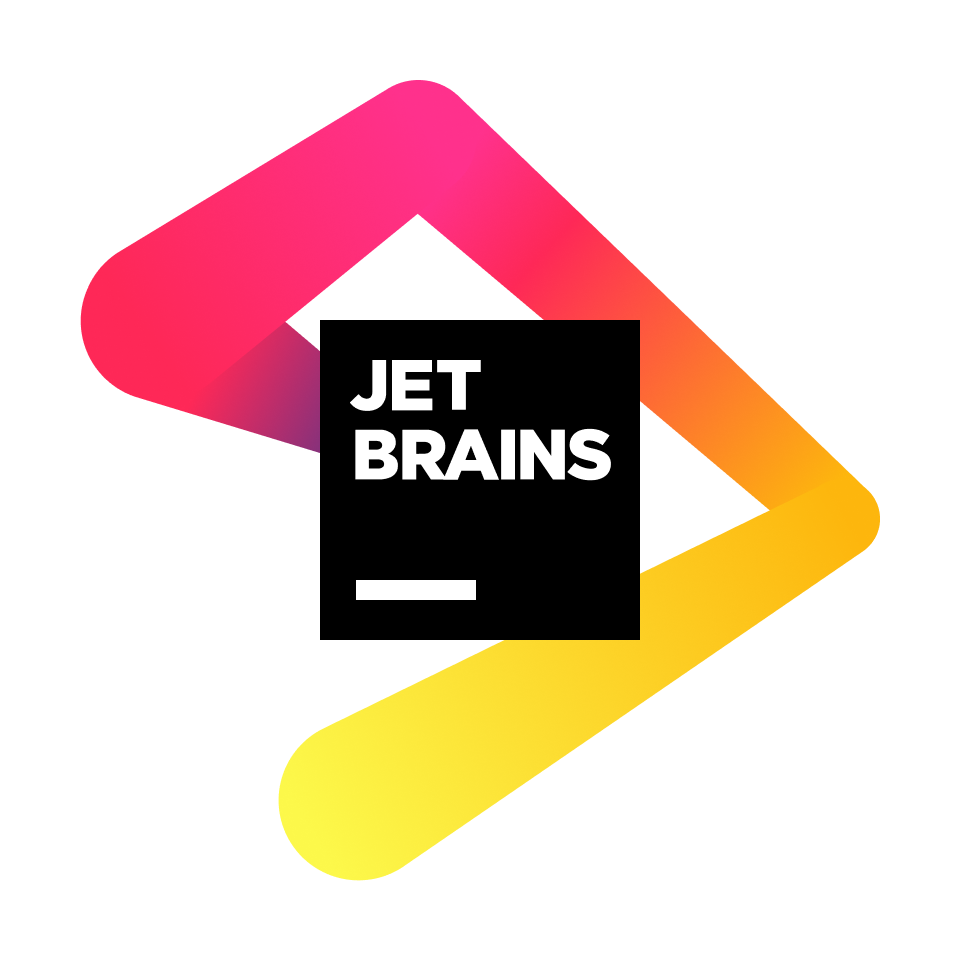
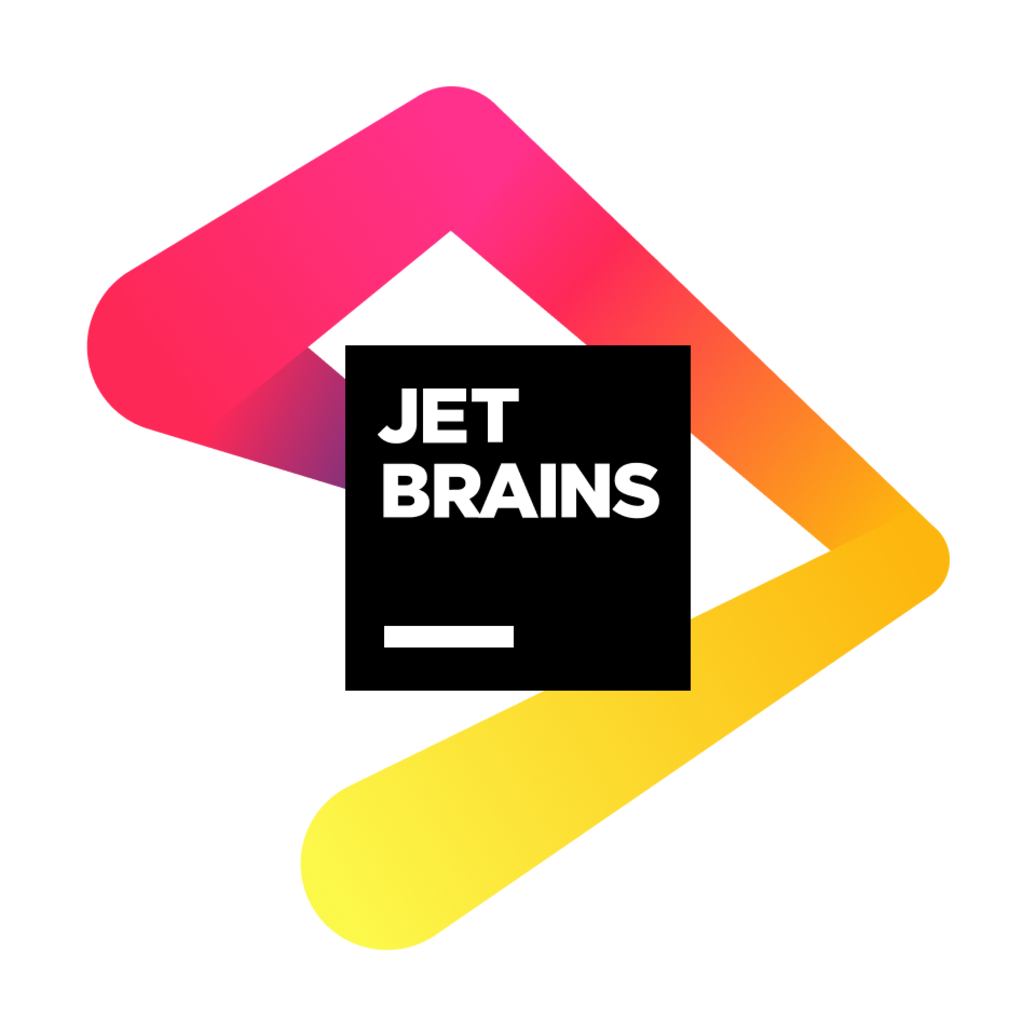
add CGI, fixed Jet Brains, added sponsor links

diff --git a/index.html b/index.html
@@ -507,12 +507,16 @@ UI Design: Aarushi
     <div class="sponsors-container">
         <div class="gold-sponsors">
             <h3>Gold Sponsors</h3>
-            <div class="sponsors-list d-flex flex-row justify-content-around">
+            <div class="sponsors-list justify-content-between">
                 <div class="gold">
+                    <a href="https://www.rbc.com/canada.html" target="_blank">
                     <img src="./Assets/Sponsors/Gold Sponsors/2019_RBC_rgb_P_1in.png" alt="RBC">
+                </a>
                 </div>
                 <div class="gold" id="Scotiabank">
+                    <a href="https://www.scotiabank.com/ca/en/personal.html" target="_blank">
                     <img src="./Assets/Sponsors/Gold Sponsors/Scotiabank Brand Box_English_For Web.png" alt="Scotiabank">
+                </a>
                 </div>
             </div>
         </div>
@@ -521,10 +525,14 @@ UI Design: Aarushi
             <h3>Silver Sponsors</h3>
             <div class="sponsors-list">
                 <div class="silver">
+                    <a href="https://www.bell.ca/" target="_blank">
                     <img src="./Assets/Sponsors/Silver Sponsors/Bell_Blue_large_transparent.png" alt="Bell">
+                </a>
                 </div>
                 <div class="silver">
-                    <img src="./Assets/Sponsors/Silver Sponsors/GM.png" alt="Bell">
+                    <a href="https://www.gm.ca/en/home.html" target="_blank">
+                    <img src="./Assets/Sponsors/Silver Sponsors/GM.png" alt="GM">
+                </a>
                 </div>
             </div>
         </div>
@@ -534,20 +542,33 @@ UI Design: Aarushi
             <div>
                 <div class="sponsors-list">
                     <div class="bronze">
+                        <a href="https://www.bmo.com/main/personal" target="_blank">
                         <img src="./Assets/Sponsors/Bronze Sponsors/BMO-MB_2RB.jpg" alt="BMO">
+                    </a>
                     </div>
                     <div class="bronze">
+                        <a href="https://www.kpmpower.com/" target="_blank">
                         <img src="./Assets/Sponsors/Bronze Sponsors/KPM Main_1.png" alt="KPM Power">
+                    </a>
                     </div>
                 </div>
             </div>
             <div>
                 <div class="sponsors-list">
-                    <div class="bronze">
+                    <div class="bronze" id="Scotiabank">
+                        <a href="https://www.morningstar.ca/ca/" target="_blank">
                         <img src="./Assets/Sponsors/Bronze Sponsors/MLOGO_red_3rgb_435px.png" alt="Morningstar">
+                    </a>
                     </div>
                     <div class="bronze">
+                        <a href="https://pg.ca/en-CA/" target="_blank">
                         <img src="./Assets/Sponsors/Bronze Sponsors/P&G_Logo_CMK.jpeg" alt="P&G">
+                    </a>
+                    </div>
+                    <div class="bronze" id="Scotiabank">
+                        <a href="https://www.cgi.com/canada/en-ca" target="_blank">
+                        <img src="./Assets/Sponsors/Bronze Sponsors/CGI_logo_color_rgb.png" alt="CGI">
+                    </a>
                     </div>
                 </div>
             </div>
@@ -555,15 +576,21 @@ UI Design: Aarushi
         <div class="community-sponsors">
             <h3>Community Sponsors</h3>
             <div class="sponsors-list">
-                <div class="community">
+                <div class="community" >
+                    <a href="https://yspace.yorku.ca/" target="_blank">
                     <img src="./Assets/Sponsors/Community Sponsors/YSpace_YorkU_2020_RGB.png" alt="YSpace">
+                </a>
                 </div>
                 <div class="community">
+                    <a href="https://reactor.microsoft.com/en-us/reactor/home/index/?regions=North+America&preferredLanguage=English&page=1" target="_blank">
                     <img src="./Assets/Sponsors/Community Sponsors/MSFT_Reactor_Logo_RGB_Black_Toronto.png" alt="Microsoft Reactor">
+                </a>
                 </div>
                 <!--Copyright © 2000-2023 JetBrains s.r.o. JetBrains and the JetBrains logo are registered trademarks of JetBrains s.r.o.-->
-                <div class="community">
+                <div class="community" id="jet">
+                    <a href="https://www.jetbrains.com/" target="_blank">
                     <img src="./Assets/Sponsors/Community Sponsors/jb_beam.png" alt="Jet Brains">
+                </a>
                 </div>
             </div>
         </div>

diff --git a/style.css b/style.css
@@ -571,7 +571,7 @@ body, html{ height: 100%; line-height: 1.8;}
   margin-left: 15px;
  }
 
- .collapse p a{	
+ .collapse p {	
   color: #8872AB;
 }
 
@@ -601,7 +601,7 @@ body, html{ height: 100%; line-height: 1.8;}
 #sponsors {
     position: relative;
     width: 100%;    
-    height: 2034px;
+    height: 2184px;
     margin: 0 auto;
     background: white;
 }
@@ -671,7 +671,7 @@ body, html{ height: 100%; line-height: 1.8;}
 
 .silver img {
     width: auto;
-    height: 190px;
+    height: 200px;
 }
 
 .bronze-sponsors h3 {
@@ -685,7 +685,7 @@ body, html{ height: 100%; line-height: 1.8;}
 
 .bronze img {
     width: auto;
-    height: 100px;
+    height: 120px;
 }
 
 .community-sponsors h3 {
@@ -699,8 +699,14 @@ body, html{ height: 100%; line-height: 1.8;}
 
 .community img {
     width: auto;
-    height: 70px;
+    height: 100px;
 }
+
+#jet{
+    transform: scale(1.3);
+}
+
+
 /* Sponsor section ends */
 
 /* ******************************************** */
@@ -711,10 +717,10 @@ body, html{ height: 100%; line-height: 1.8;}
 .contact#contactus {
     position: relative;
     width: 100%;
-    top: 2000px;
+    top: 2100px;
     border: 0;
     margin: 0 auto;
-    height: 922px;
+    height: 522px;
 }
 
 /* Location container */
